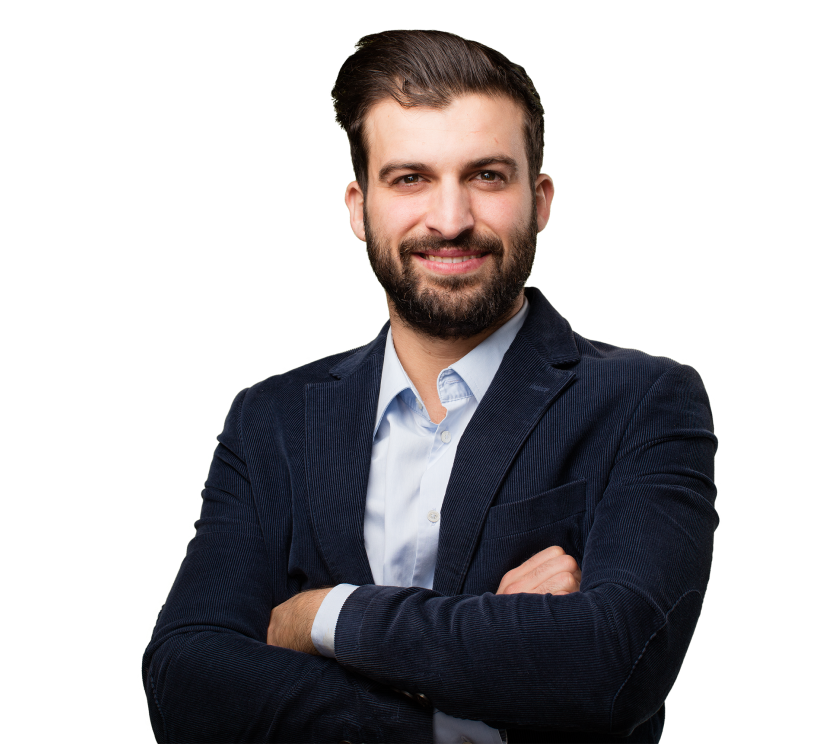
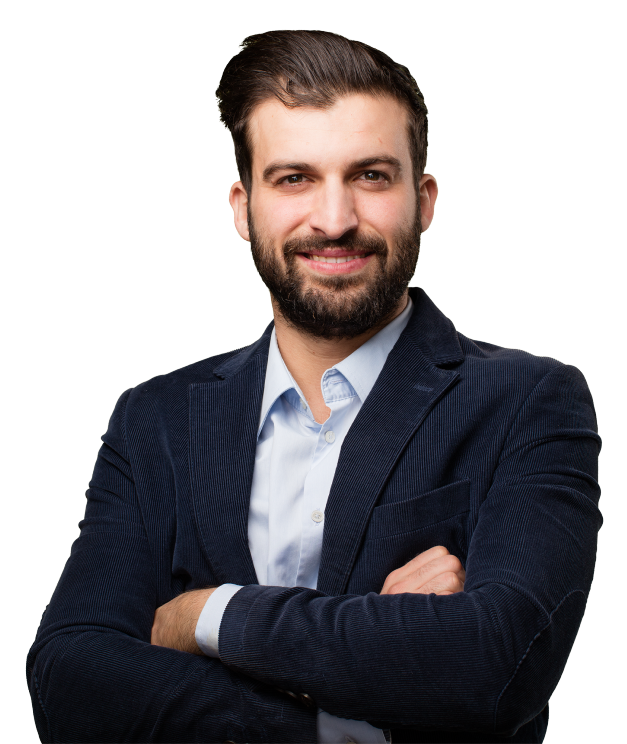
up

Changed region(s): [[0.0303, 0.0309, 0.9697, 1.0], [0.6061, 0.9892, 0.6364, 1.0]]

diff --git a/src/components/Banner/Banner.jsx b/src/components/Banner/Banner.jsx
@@ -1,13 +1,22 @@
 import './Banner.css'
 const Banner = () => {
     return (
-        <div className="bg-gradient-to-r from-[#9873ff19] to-[#7e8ffe1a]">
-            <div>
-                <h1 className="text-5xl font-extrabold">
+      <div className='bg-gradient-to-r from-[#9873ff19] to-[#7e8ffe1a] mt-10 mb-28'>
+          <div className=" flex justify-between items-center w-3/4 mx-auto">
+            <div className='space-y-6'>
+                <h1 className="text-6xl font-extrabold leading-[80px]">
                 One Step <br /> Closer To Your <br /> <span className="dream-job">Dream Job</span>
                 </h1>
+                <p className='w-[500px]'>Explore thousands of job opportunities with all the information you need. Its your future. Come find it. Manage all your job application from start to finish.</p>
+                <button className='btn bg-gradient-to-r from-[#9873ff] to-[#7e8ffe] text-white'>Get Started</button>
             </div>
+          <div>
+         
+            <img src="/src/assets/images/user.png" className=' w-[80%] ml-32'  alt="" />
+         
+          </div>
         </div>
+      </div>
     );
 };
 

diff --git a/src/components/Home/Home.jsx b/src/components/Home/Home.jsx
@@ -6,15 +6,17 @@ import FeaturedJobs from "../FeaturedJobs/FeaturedJobs";
 const Home = () => {
     const featuredJobs = useLoaderData()
     return (
-        <div className=" w-3/4 mx-auto">
+        <div >
             <Banner></Banner>
-            <CategoryList></CategoryList>
-            <h1 className='text-5xl font-bold text-center'>Featured Jobs</h1>
-            <div className="grid grid-cols-2 gap-8">
+           <div className=" w-3/4 mx-auto">
+           <CategoryList></CategoryList>
+            <h1 className='text-5xl font-bold text-center mt-36'>Featured Jobs</h1>
+            <div className="grid grid-cols-2 gap-8 my-20">
             {
                 featuredJobs.map( jobs => <FeaturedJobs jobs={jobs}></FeaturedJobs>)
             }
             </div>
+           </div>
         </div>
     );
 };

diff --git a/src/components/FeaturedJobs/FeaturedJobs.jsx b/src/components/FeaturedJobs/FeaturedJobs.jsx
@@ -5,8 +5,8 @@ import './FeaturedJobs.css'
 const FeaturedJobs = ({jobs}) => {
     const {logo, job_title,company_name,remote_or_onsite,location,job_type,salary,job_description} = jobs
     return (
-        <div className='p-8 border border-[] rounded space-y-2'>
-            <img src={logo} className='w-[30%]' alt="" />
+        <div className='p-8 border border-[#75757568] rounded space-y-2'>
+            <figure><img src={logo} className='w-[30%]' alt="" /></figure>
             <h2 className='text-lg font-bold'> {job_title} </h2>
             <p> {company_name} </p>
             <div className='flex gap-6'>
